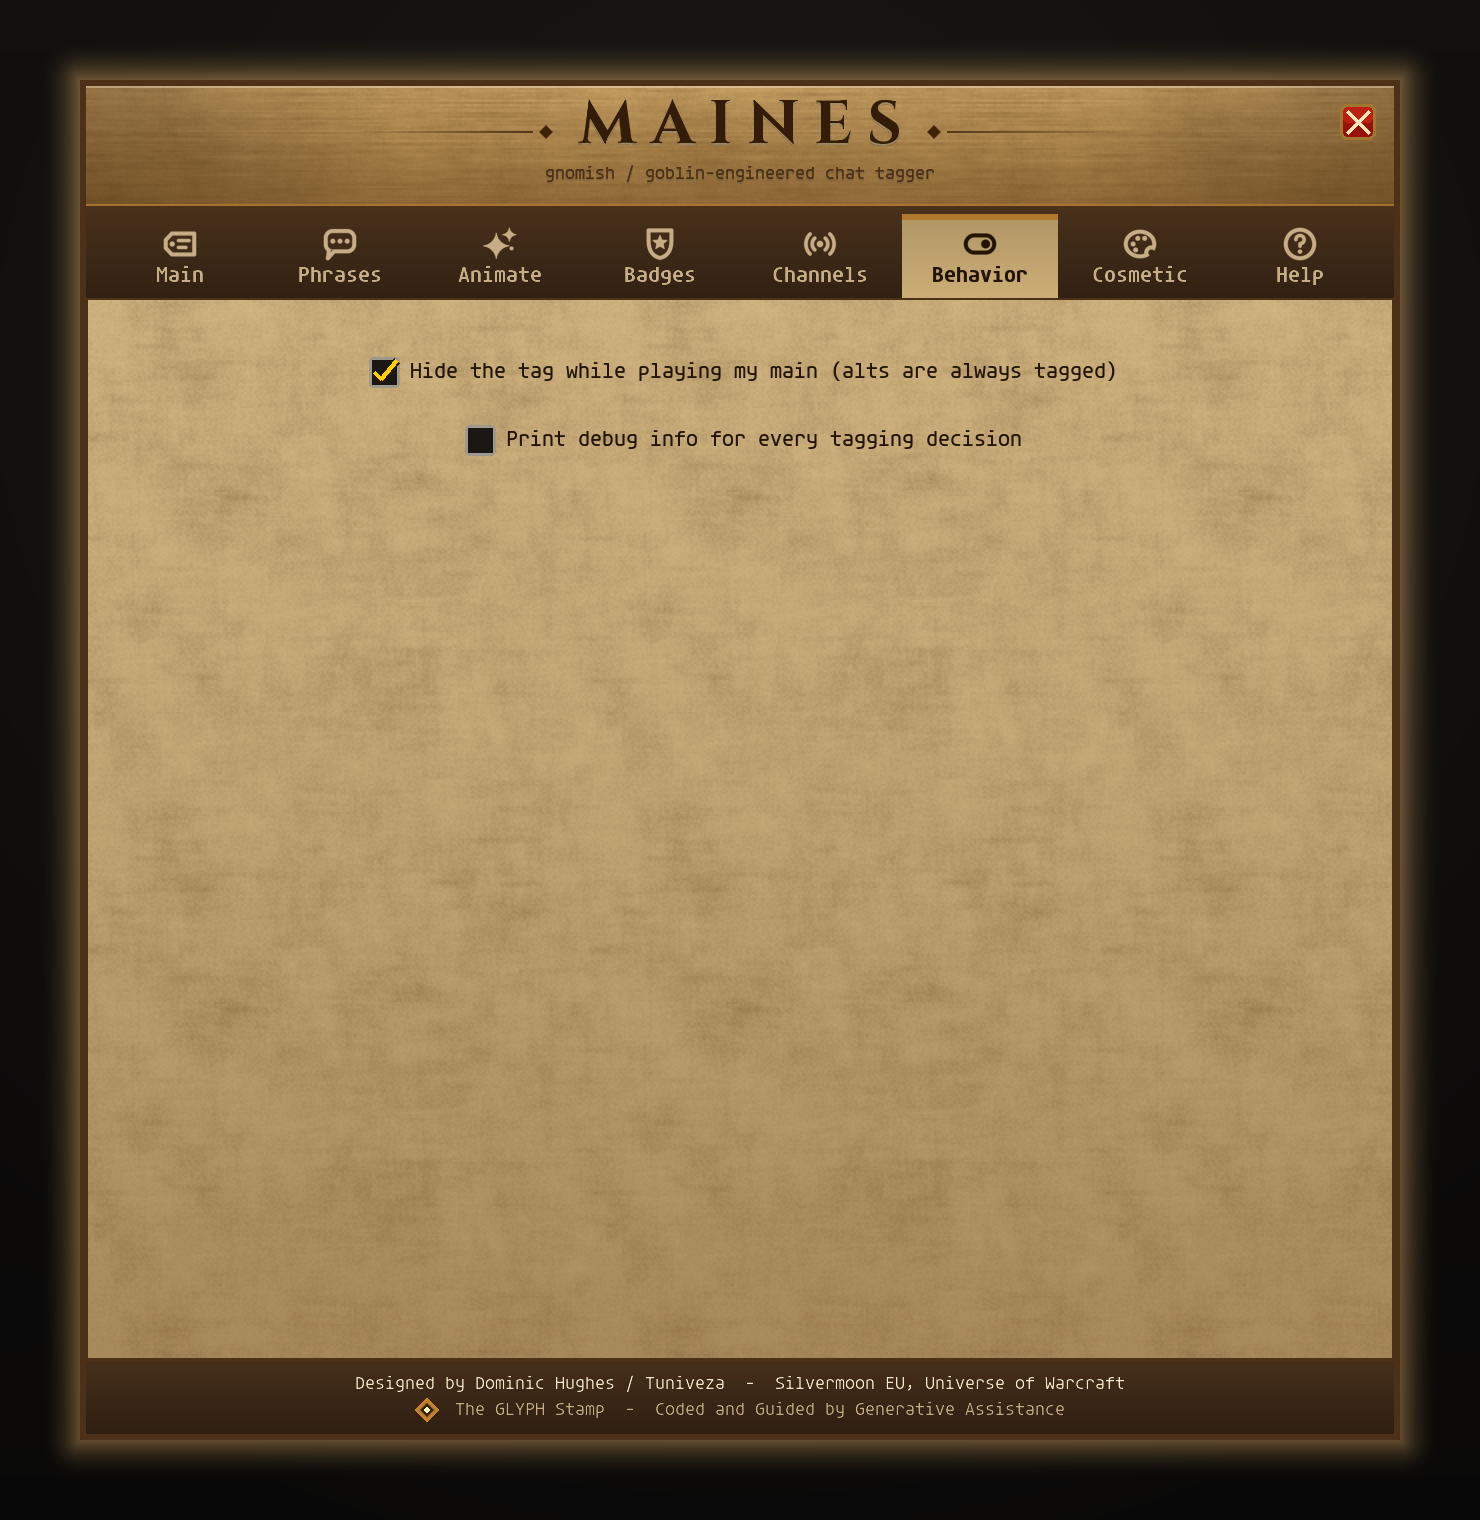
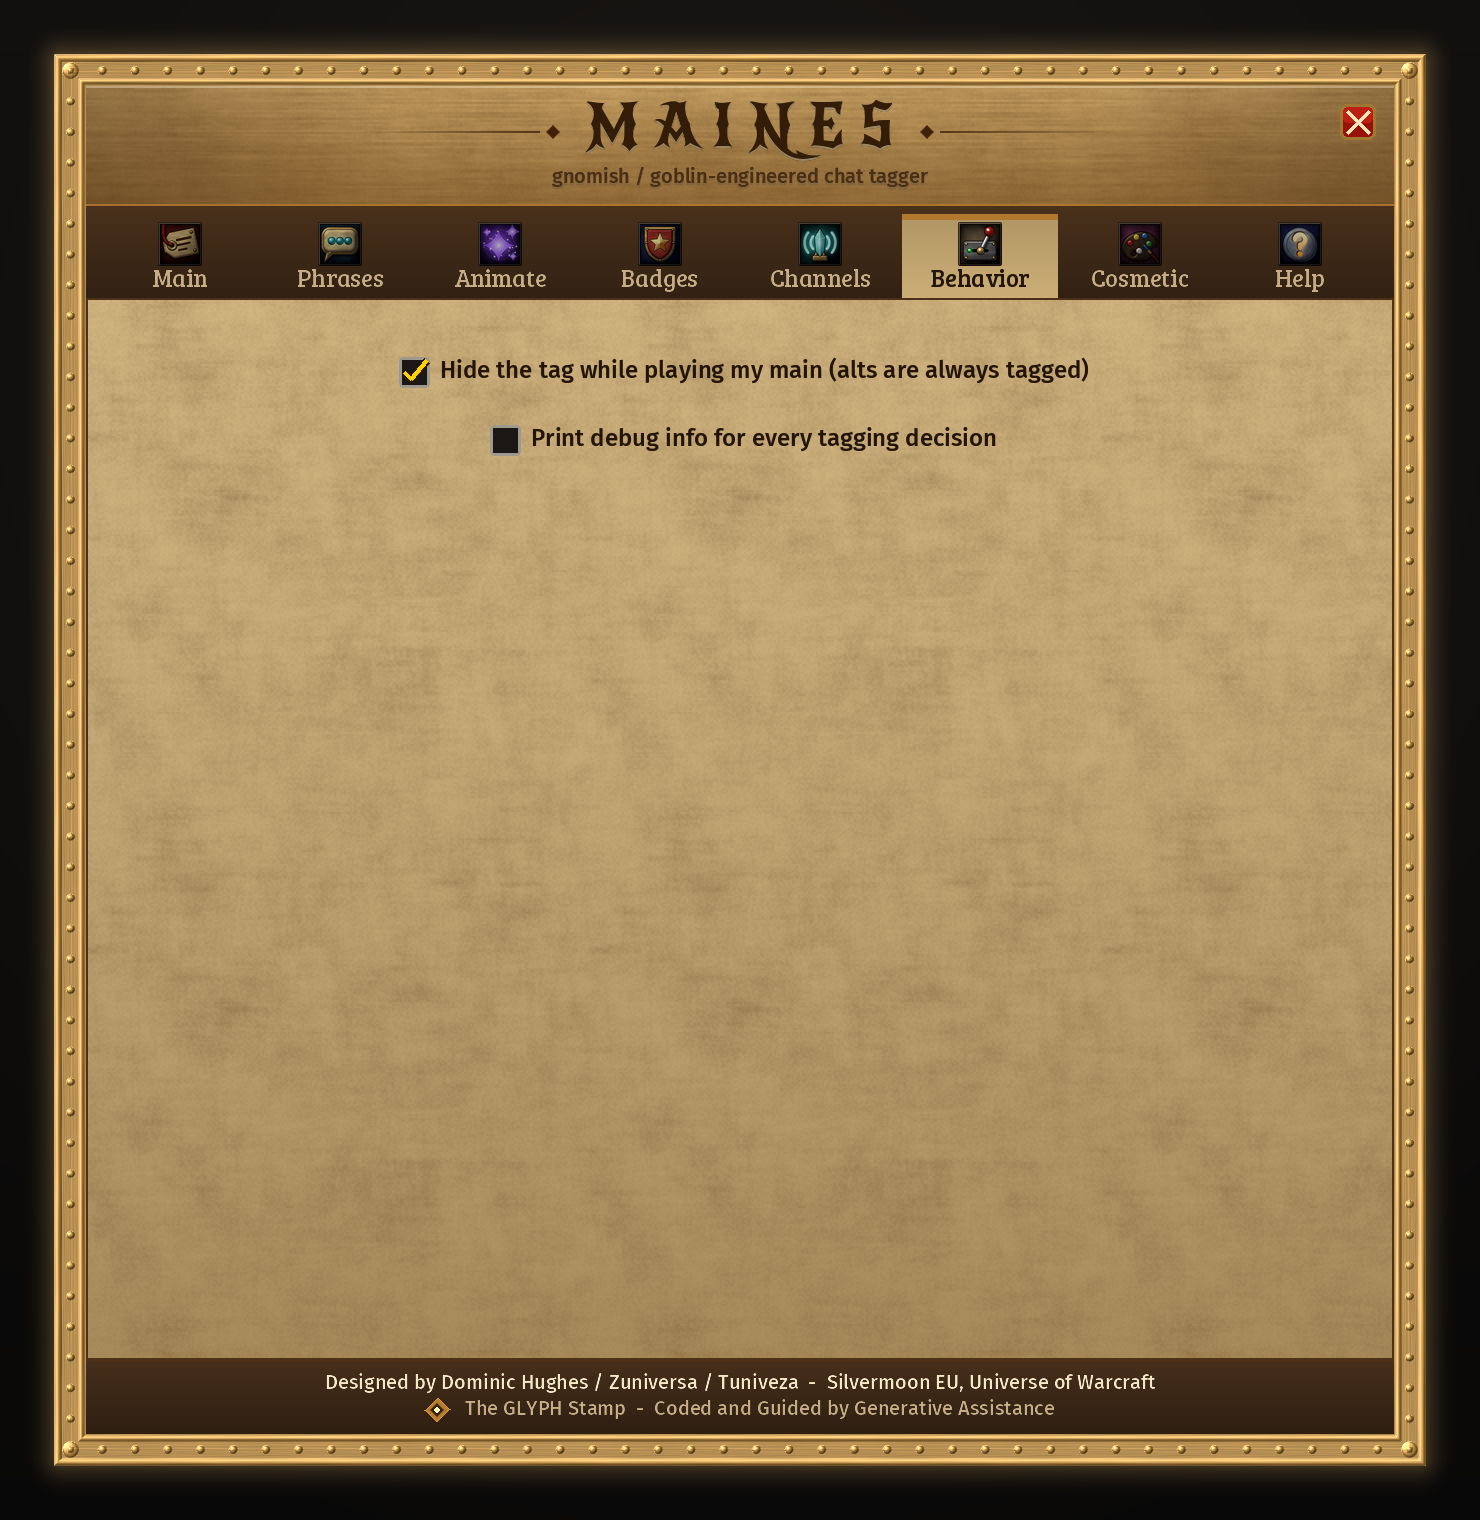
GLYPH.1: changelog, README and CurseForge text, all media rebuilt at 2x

diff --git a/docs/curseforge-description.html b/docs/curseforge-description.html
@@ -1,4 +1,4 @@
-<p style="text-align: center;"><img alt="Maines" src="https://raw.githubusercontent.com/tuniveza/Maines/3bb24fc/docs/media/banner.png" /></p>
+<p style="text-align: center;"><img alt="Maines" src="https://raw.githubusercontent.com/tuniveza/Maines/GLYPH.1/docs/media/banner.png" /></p>
 <h2 style="text-align: center;">Playing an alt? Let your friends know it's you.</h2>
 <p>Maines puts your main character's name in front of everything you say in chat.</p>
 <p>Your guild sees who is really talking, whichever character you're on.</p>
@@ -13,7 +13,7 @@
 </ol>
 <p>That's it. Your tag appears on every message.</p>
 <p>On your main, Maines stays quiet, because everyone already knows it's you.</p>
-<p style="text-align: center;"><img alt="Your tag in chat, changing a little with every message" src="https://raw.githubusercontent.com/tuniveza/Maines/3bb24fc/docs/media/tag-anim.gif" /></p>
+<p style="text-align: center;"><img alt="Your tag in chat, changing a little with every message" src="https://raw.githubusercontent.com/tuniveza/Maines/GLYPH.1/docs/media/tag-anim.gif" /></p>
 <hr />
 <h2 style="text-align: center;">What you get</h2>
 <p><strong>🏷 Your name, your style</strong>
@@ -27,13 +27,13 @@ Send a whole picture made of text: a heart, a sword, a crown, a murloc and more.
 <p><strong>📻 Choose your channels</strong>
 Tag guild, party, raid, whispers, communities and more. Turn off any you don't want.</p>
 <p><strong>🎨 Paint the window</strong>
-Repaint the settings window with colours from famous paintings, or from Gnomeregan and Undermine.</p>
-<p style="text-align: center;"><img alt="The ten Textual Badges" src="https://raw.githubusercontent.com/tuniveza/Maines/3bb24fc/docs/media/badges.png" /></p>
+Repaint the settings window with colours from famous paintings, or from Gnomeregan and Undermine. Each one brings its own texture and frame, and Maines remembers your pick.</p>
+<p style="text-align: center;"><img alt="The ten Textual Badges" src="https://raw.githubusercontent.com/tuniveza/Maines/GLYPH.1/docs/media/badges.png" /></p>
 <hr />
 <h2 style="text-align: center;">Prefer buttons to commands?</h2>
 <p>Type <code>/maines</code>, or click the brass <strong>M</strong> on your minimap.</p>
 <p>Everything can be done from the settings window.</p>
-<p style="text-align: center;"><img alt="The Maines settings window" src="https://raw.githubusercontent.com/tuniveza/Maines/3bb24fc/docs/media/window-main.png" /></p>
+<p style="text-align: center;"><img alt="The Maines settings window" src="https://raw.githubusercontent.com/tuniveza/Maines/GLYPH.1/docs/media/window-main.png" /></p>
 <hr />
 <h2 style="text-align: center;">Handy commands</h2>
 <table align="center" style="margin-left: auto; margin-right: auto;">

diff --git a/README.md b/README.md
@@ -3,7 +3,7 @@
 </p>
 
 <p align="center">
-  <a href="https://github.com/tuniveza/Maines/releases/latest"><img src="https://img.shields.io/badge/stamp-GLYPH-8B5E3C" alt="Current stamp: GLYPH"></a>
+  <a href="https://github.com/tuniveza/Maines/releases/latest"><img src="https://img.shields.io/badge/stamp-GLYPH.1-8B5E3C" alt="Current stamp: GLYPH.1"></a>
   <img src="https://img.shields.io/badge/WoW-12.1.5%20(Midnight)-3E6E96" alt="WoW 12.1.5 (Midnight)">
   <a href="https://www.curseforge.com/wow/addons/maines"><img src="https://img.shields.io/badge/CurseForge-Maines-F16436" alt="Maines on CurseForge"></a>
   <img src="https://img.shields.io/badge/built%20on-Ace3-C9A227" alt="Built on Ace3">
@@ -51,7 +51,7 @@ Every Maines release gets a name instead of a version number, stamped like a sea
 </tr>
 <tr>
 <td>🔩 <strong>A new coat of brass</strong></td>
-<td>Parchment, brushed brass, soft gradients, bevelled buttons and hand-made icons.</td>
+<td>Painted WoW-style icons, thicker fonts, and a textured frame for every palette (new in GLYPH.1).</td>
 </tr>
 </tbody>
 </table>
@@ -63,7 +63,7 @@ Full notes for every stamp: [CHANGELOG.md](CHANGELOG.md).
 **CurseForge app:** search for **Maines** and press Install.
 
 **By hand:**
-1. Download `Maines-GLYPH.zip` from the [Releases page](https://github.com/tuniveza/Maines/releases/latest).
+1. Download `Maines-GLYPH.1.zip` from the [Releases page](https://github.com/tuniveza/Maines/releases/latest).
 2. Unzip it into `World of Warcraft/_retail_/Interface/AddOns/`.
 3. You should now have a folder called `AddOns/Maines`.
 
@@ -179,7 +179,10 @@ One badge every 3 minutes. Your guild will thank you. Mostly.
 `/maincolor` (or right-click the minimap button) repaints the whole window from one of 13 palettes.
 Some come from famous paintings: *The Starry Night*, *The Great Wave*, *The Kiss*, *Nighthawks*, *The Scream* and more.
 Some come from closer to home: *Gnomeregan Copper*, *Undermine Neon*, *Ironforge Brass & Steel*, *Verdigris Goblin*.
-Pick a swatch yourself on the **Cosmetic** page. The reading text stays dark ink, so no roll can make it unreadable.
+Each palette brings its own paper texture and its own frame: riveted brass, gilded mosaic, weathered copper, neon tubing and more.
+It colours the title bar, tab bar and footer too, and Maines remembers your pick after a `/reload`.
+
+Pick a swatch yourself on the **Cosmetic** page. The reading text always stays readable, whatever you roll.
 
 <p align="center">
   <img src="docs/media/palettes.gif" width="560" alt="The Maines window being repainted by several /maincolor rolls">

diff --git a/docs/curseforge-description.md b/docs/curseforge-description.md
@@ -1,4 +1,4 @@
-![Maines](https://raw.githubusercontent.com/tuniveza/Maines/3bb24fc/docs/media/banner.png)
+![Maines](https://raw.githubusercontent.com/tuniveza/Maines/GLYPH.1/docs/media/banner.png)
 
 ## Playing an alt? Let your friends know it's you.
 
@@ -23,7 +23,7 @@ That's it. Your tag appears on every message.
 
 On your main, Maines stays quiet, because everyone already knows it's you.
 
-![Your tag in chat, changing a little with every message](https://raw.githubusercontent.com/tuniveza/Maines/3bb24fc/docs/media/tag-anim.gif)
+![Your tag in chat, changing a little with every message](https://raw.githubusercontent.com/tuniveza/Maines/GLYPH.1/docs/media/tag-anim.gif)
 
 ---
 
@@ -45,9 +45,9 @@ Send a whole picture made of text: a heart, a sword, a crown, a murloc and more.
 Tag guild, party, raid, whispers, communities and more. Turn off any you don't want.
 
 **🎨 Paint the window**
-Repaint the settings window with colours from famous paintings, or from Gnomeregan and Undermine.
+Repaint the settings window with colours from famous paintings, or from Gnomeregan and Undermine. Each one brings its own texture and frame, and Maines remembers your pick.
 
-![The ten Textual Badges](https://raw.githubusercontent.com/tuniveza/Maines/3bb24fc/docs/media/badges.png)
+![The ten Textual Badges](https://raw.githubusercontent.com/tuniveza/Maines/GLYPH.1/docs/media/badges.png)
 
 ---
 
@@ -57,7 +57,7 @@ Type `/maines`, or click the brass **M** on your minimap.
 
 Everything can be done from the settings window.
 
-![The Maines settings window](https://raw.githubusercontent.com/tuniveza/Maines/3bb24fc/docs/media/window-main.png)
+![The Maines settings window](https://raw.githubusercontent.com/tuniveza/Maines/GLYPH.1/docs/media/window-main.png)
 
 ---
 

diff --git a/CHANGELOG.md b/CHANGELOG.md
@@ -1,3 +1,21 @@
+# GLYPH.1
+
+A small revision of GLYPH: mostly a fresh coat of paint.
+
+### Changed
+
+- **New icons.** Every tab has a new hand-made icon in a painted, square style. The tab you're on shows in full colour.
+- **New fonts.** Thicker, easier-to-read text, with a different font for titles, headings, text and buttons.
+- **Palettes go further.** Each `/maincolor` palette now has its own paper texture and its own window border, and it also colours the title bar, the tab bar and the footer.
+- **Your palette is remembered.** The palette you pick now stays after a `/reload` or the next login.
+- **Centred input boxes.** Text you type in the name, bracket, phrase and badge-name boxes sits in the middle.
+- **Credits** now read Zuniversa / Tuniveza.
+
+### Fixed
+
+- The Rose badge's stem was stretched to about 15 dashes when sent. One-line badges now go out exactly as drawn.
+- The badge list cut off the bottom of its 11th row. It now shows 11 full rows before it scrolls.
+
 # GLYPH
 
 Updated for WoW 12.1.5.
